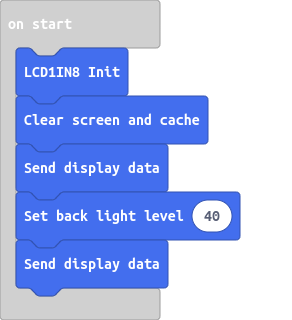
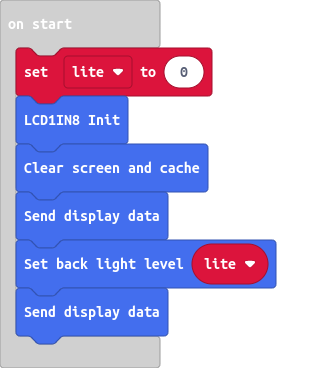
add lite level variable

Changed region(s): [[0.0308, 0.0, 0.863, 1.0], [0.0308, 0.0312, 0.2466, 0.0938]]

diff --git a/main.ts b/main.ts
@@ -1,7 +1,8 @@
+let lite = 0
 LCD1IN8.LCD_Init()
 LCD1IN8.LCD_Clear()
 LCD1IN8.LCD_Display()
-LCD1IN8.LCD_SetBL(40)
+LCD1IN8.LCD_SetBL(lite)
 LCD1IN8.LCD_Display()
 basic.forever(function () {
 	
